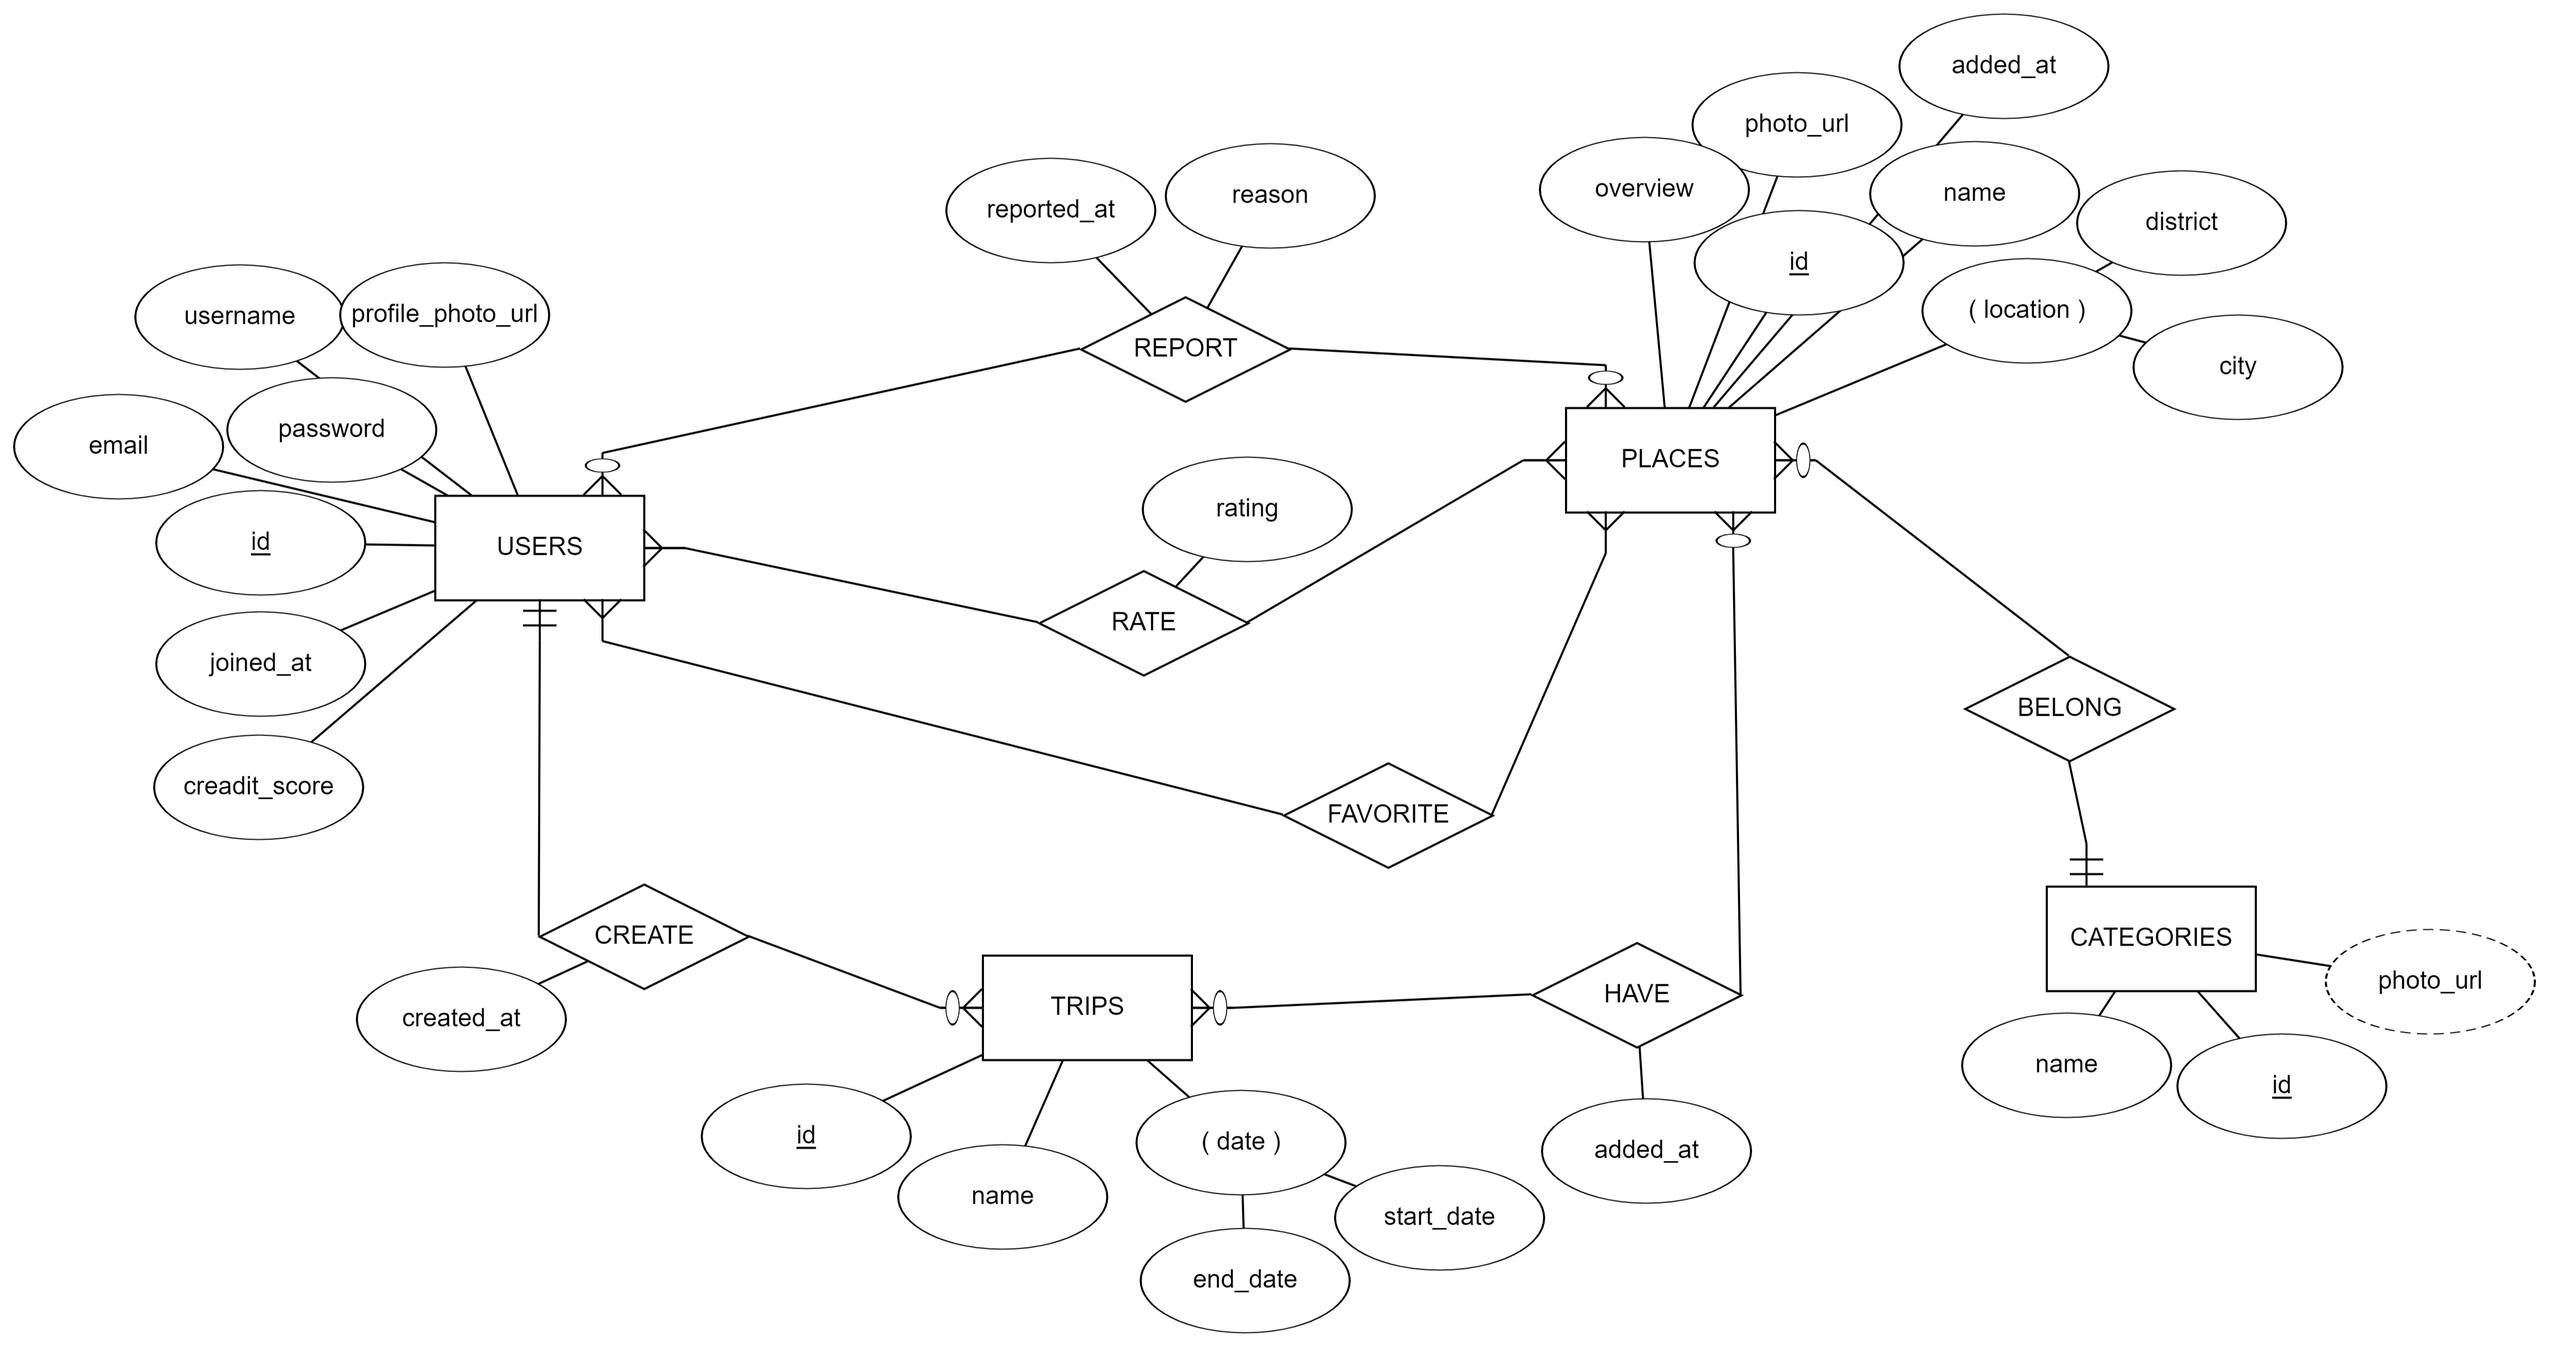
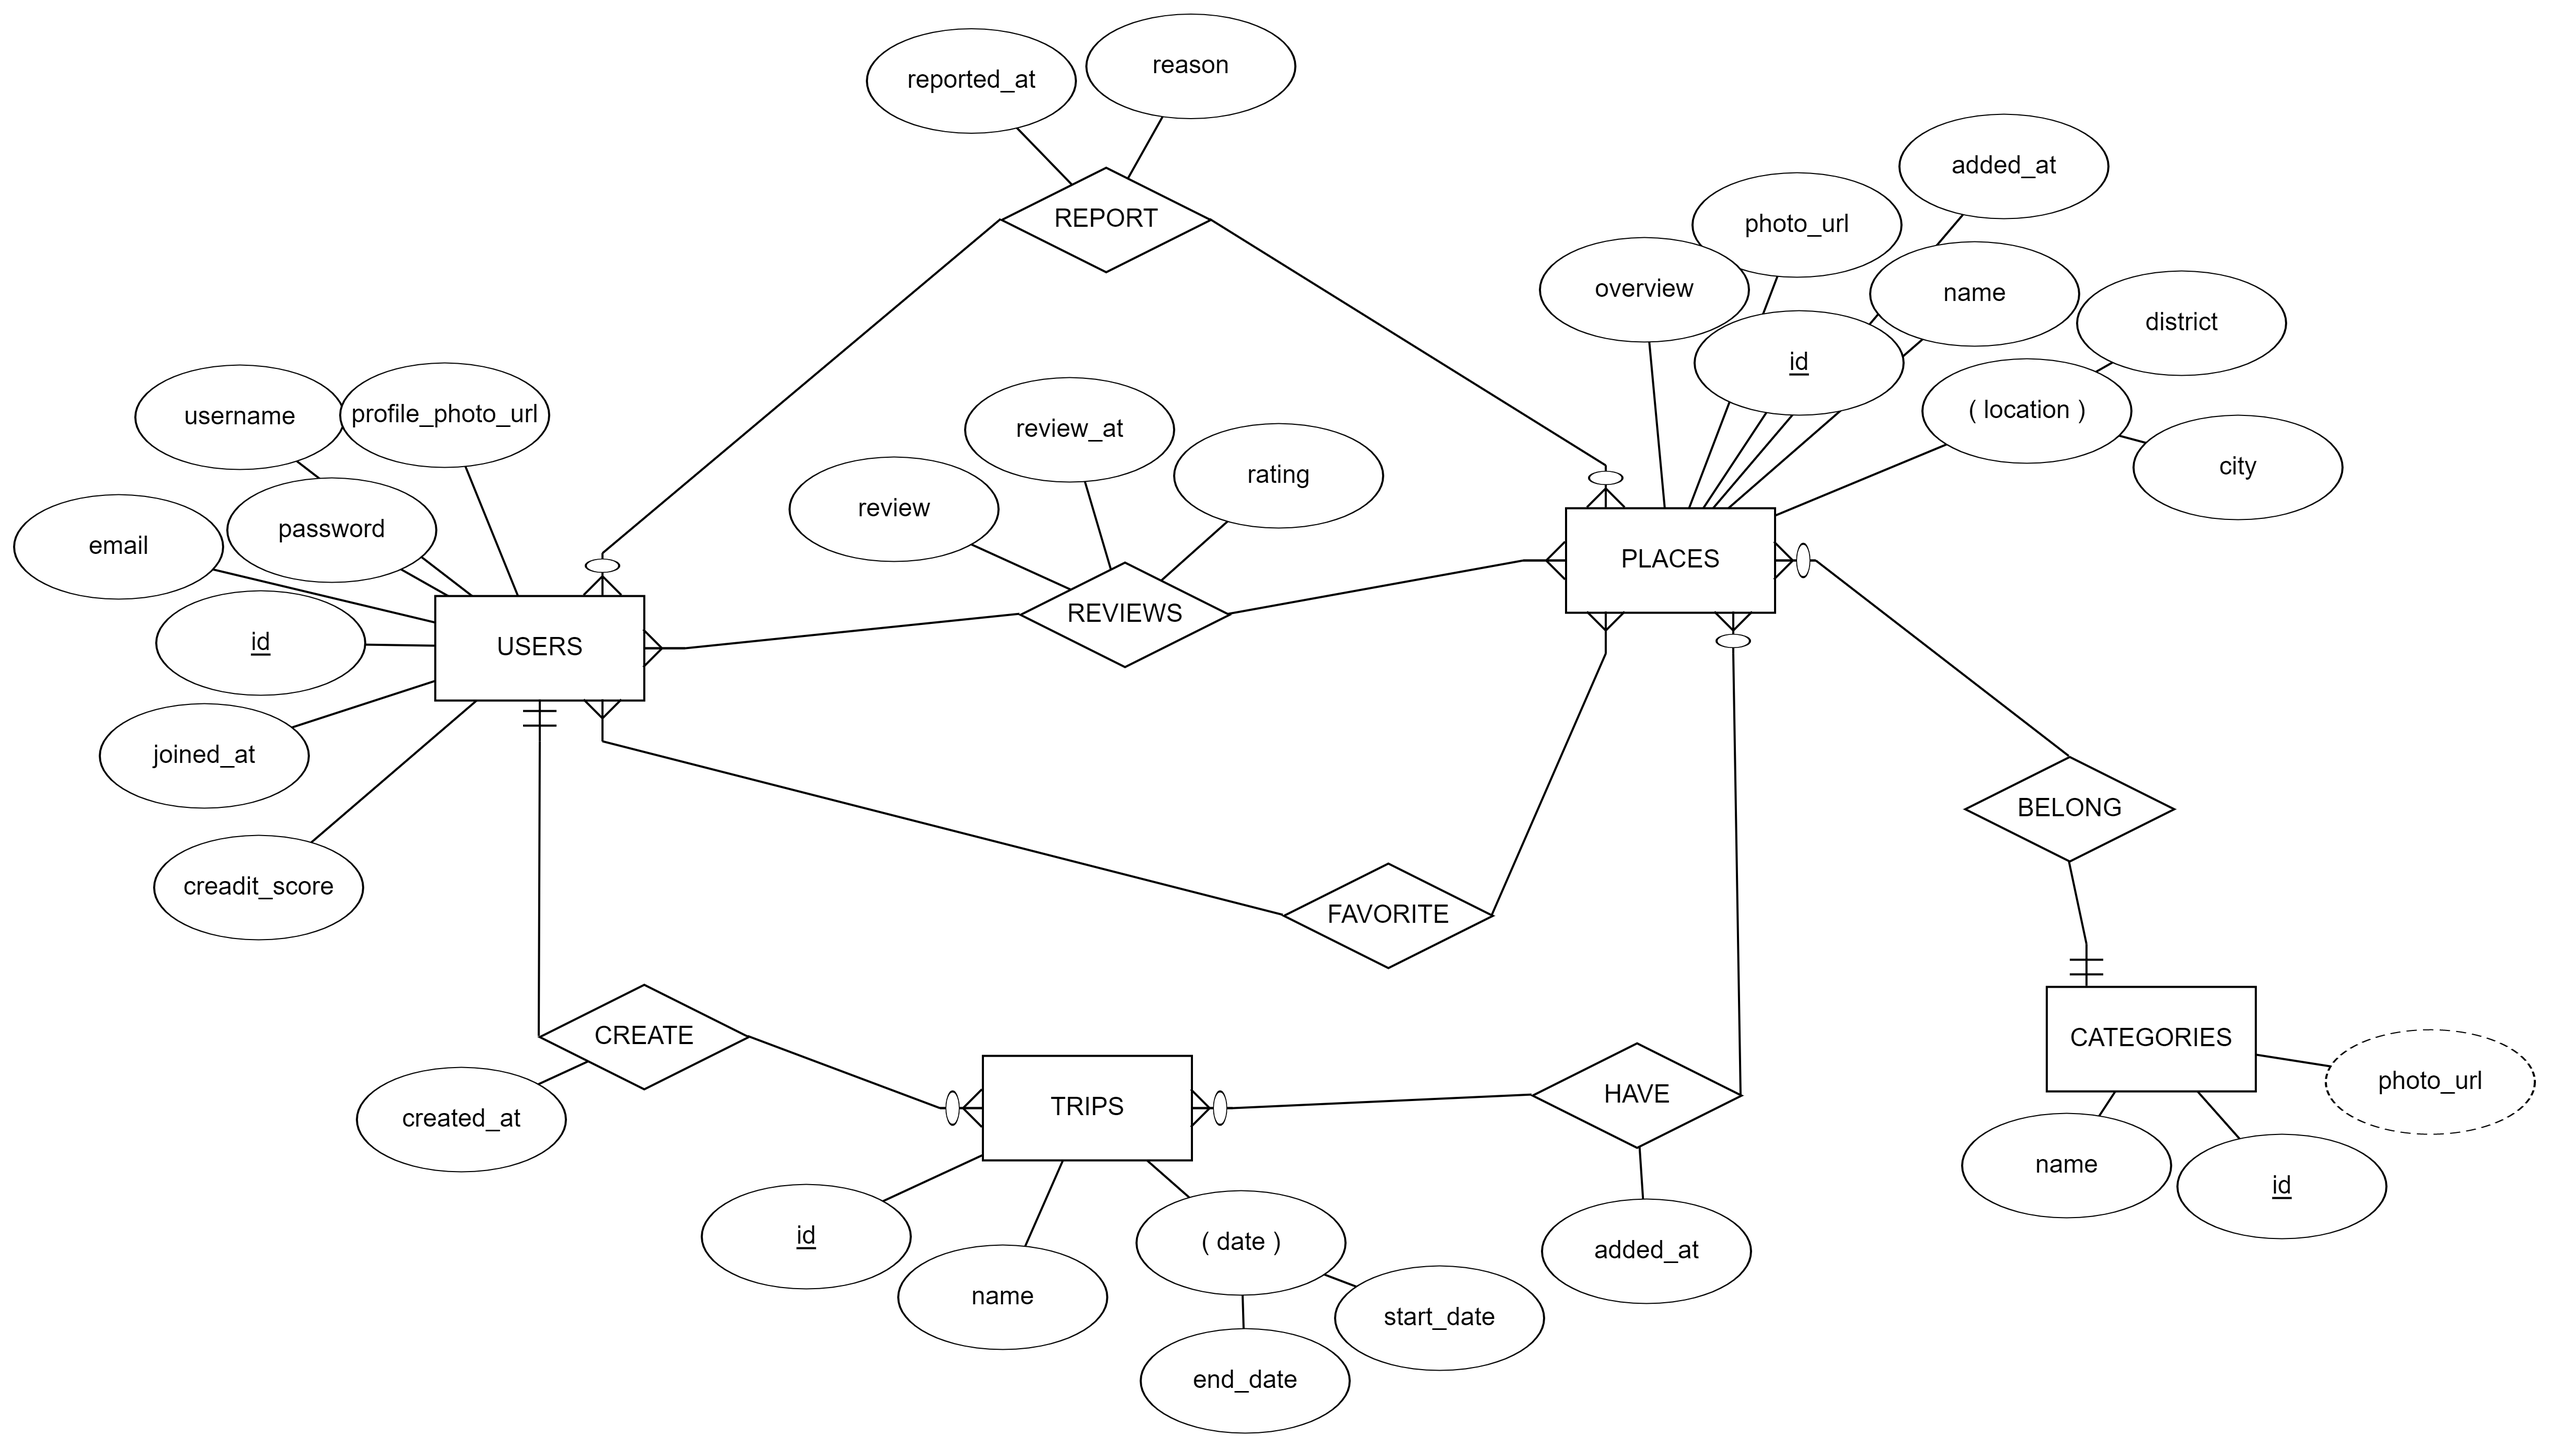
init db :rocket:

diff --git a/api/php/connection.php b/api/php/connection.php
@@ -1,0 +1,101 @@
+<?php
+
+$db_host = "localhost";
+$db_user = "root";
+$db_pass = null;
+$db_name = "trouifydb";
+
+$connection = new mysqli($db_host, $db_user, $db_pass);
+
+if ($connection->connect_error) {
+    die("Connection failed: " . $connection->connect_error);
+}
+
+// create the database if it doesn't exist
+
+$sql = "CREATE DATABASE IF NOT EXISTS $db_name";
+if ($connection->query($sql) === TRUE) {
+    echo "Database created successfully";
+} else {
+    echo "Error creating database: " . $connection->error;
+}
+
+$connection = new mysqli($db_host, $db_user, $db_pass, $db_name);
+
+// create the table if it doesn't exist
+
+$connection->query("CREATE TABLE IF NOT EXISTS users (
+    id INT(6) UNSIGNED AUTO_INCREMENT PRIMARY KEY,
+    username VARCHAR(30) NOT NULL,
+    email VARCHAR(50) NOT NULL,
+    password VARCHAR(50) NOT NULL,
+    joined_at TIMESTAMP DEFAULT CURRENT_TIMESTAMP,
+    profile_photo_url VARCHAR(255) NOT NULL DEFAULT 'http://localhost/tourify/api/content/assets/user/avatar.svg',
+    credit_score INT(6) NOT NULL DEFAULT 0
+)");
+
+
+$connection->query("CREATE TABLE IF NOT EXISTS categories (
+    id INT(6) UNSIGNED AUTO_INCREMENT PRIMARY KEY,
+    name VARCHAR(30) NOT NULL
+)");
+
+$connection->query("CREATE TABLE IF NOT EXISTS places (
+    id INT(6) UNSIGNED AUTO_INCREMENT PRIMARY KEY,
+    name VARCHAR(30) NOT NULL,
+    overview VARCHAR(255) NOT NULL,
+    district VARCHAR(255) NOT NULL,
+    city VARCHAR(255) NOT NULL,
+    photo_url VARCHAR(255) NOT NULL,
+    added_at TIMESTAMP DEFAULT CURRENT_TIMESTAMP,
+    category_id INT(6) UNSIGNED NOT NULL,
+    FOREIGN KEY (category_id) REFERENCES categories(id)
+)");
+
+$connection->query("CREATE TABLE IF NOT EXISTS trips (
+    id INT(6) UNSIGNED AUTO_INCREMENT PRIMARY KEY,
+    name VARCHAR(30) NOT NULL,
+    start_date DATE NOT NULL,
+    end_date DATE NOT NULL,
+    added_at TIMESTAMP DEFAULT CURRENT_TIMESTAMP,
+    user_id INT(6) UNSIGNED NOT NULL,
+    FOREIGN KEY (user_id) REFERENCES users(id)
+)");
+
+$connection->query("CREATE TABLE IF NOT EXISTS trip_places (
+    id INT(6) UNSIGNED AUTO_INCREMENT PRIMARY KEY,
+    trip_id INT(6) UNSIGNED NOT NULL,
+    place_id INT(6) UNSIGNED NOT NULL,
+    added_at TIMESTAMP DEFAULT CURRENT_TIMESTAMP,
+    FOREIGN KEY (trip_id) REFERENCES trips(id),
+    FOREIGN KEY (place_id) REFERENCES places(id)
+)");
+
+$connection->query("CREATE TABLE IF NOT EXISTS reviews (
+    id INT(6) UNSIGNED AUTO_INCREMENT PRIMARY KEY,
+    rating INT(6) NOT NULL,
+    review VARCHAR(255) NOT NULL,
+    review_at TIMESTAMP DEFAULT CURRENT_TIMESTAMP,
+    user_id INT(6) UNSIGNED NOT NULL,
+    place_id INT(6) UNSIGNED NOT NULL,
+    FOREIGN KEY (user_id) REFERENCES users(id),
+    FOREIGN KEY (place_id) REFERENCES places(id)
+)");
+
+$connection->query("CREATE TABLE IF NOT EXISTS reports (
+    id INT(6) UNSIGNED AUTO_INCREMENT PRIMARY KEY,
+    reported_at TIMESTAMP DEFAULT CURRENT_TIMESTAMP,
+    reason VARCHAR(255) NOT NULL,
+    user_id INT(6) UNSIGNED NOT NULL,
+    place_id INT(6) UNSIGNED NOT NULL,
+    FOREIGN KEY (user_id) REFERENCES users(id),
+    FOREIGN KEY (place_id) REFERENCES places(id)
+)");
+
+$connection->query("CREATE TABLE IF NOT EXISTS favorites (
+    id INT(6) UNSIGNED AUTO_INCREMENT PRIMARY KEY,
+    user_id INT(6) UNSIGNED NOT NULL,
+    place_id INT(6) UNSIGNED NOT NULL,
+    FOREIGN KEY (user_id) REFERENCES users(id),
+    FOREIGN KEY (place_id) REFERENCES places(id)
+)");
